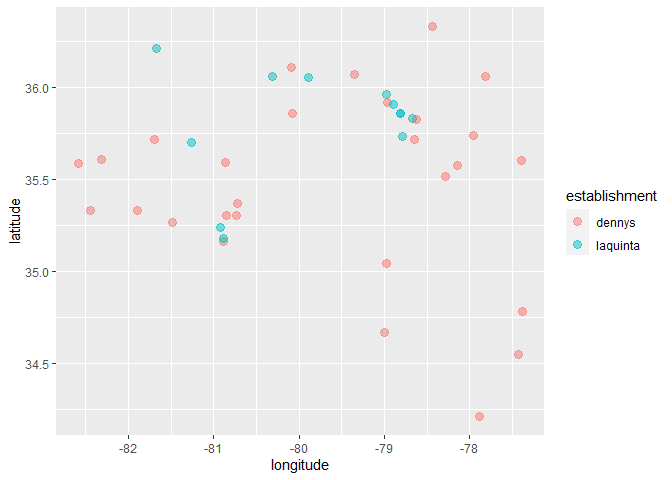
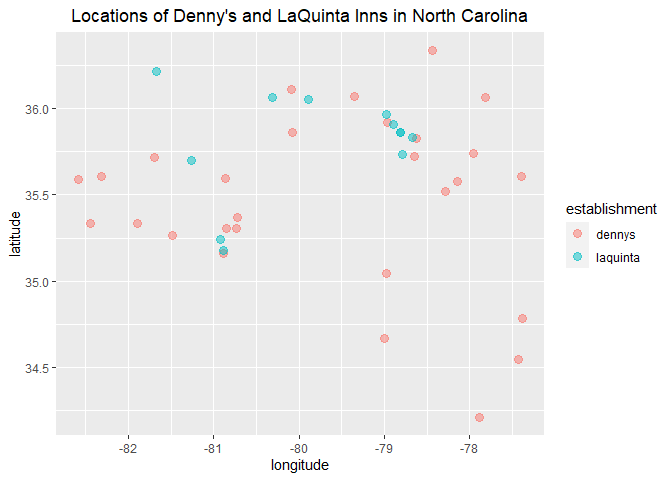
Finished lab

diff --git a/lab-04.md b/lab-04.md
@@ -374,26 +374,45 @@ ggplot(dn_lq %>%
   geom_point()
 ```
 
-![](lab-04_files/figure-gfm/visualizing-1.png)<!-- --> \### Exercise 11
+![](lab-04_files/figure-gfm/visualizing-1.png)<!-- -->
+
+### Exercise 11
+
+Now we can recreate the previous visualization showing only the Denny’s
+and LaQuinta locations in North Carolina. In this case, there is some
+truth to Mitch Hedberg’s joke, as most of the LaQuinta locations are
+pretty close to a Denny’s, although there are a few stray LaQuintas that
+aren’t near any Denny’s, and there are many Denny’s located in parts of
+NC that have no LaQuinta.
 
 ``` r
 ggplot(dn_lq %>%
          filter(state == "NC"), mapping = aes(x = longitude,
                             y = latitude,
                             color = establishment))+
-  geom_point(size = 3, alpha = 0.5)
+  geom_point(size = 3, alpha = 0.5)+
+  labs(title = "Locations of Denny's and LaQuinta Inns in North Carolina")+
+  theme(plot.title = element_text(hjust = 0.5))
 ```
 
 ![](lab-04_files/figure-gfm/visualizing-NC-1.png)<!-- -->
 
 ### Exercise 12
 
+Now let’s create basically the same visualization, but this time for
+Texas. As we can see, Mitch Hedberg’s joke doesn’t hold quite as well
+here, because there are so many LaQuintas located in places where there
+is no Denny’s. However, it does seem that, in places where there is a
+Denny’s in Texas, there is likely to be a LaQuinta nearby.
+
 ``` r
 ggplot(dn_lq %>%
          filter(state == "TX"), mapping = aes(x = longitude,
                             y = latitude,
                             color = establishment))+
-  geom_point(size = 3, alpha = 0.5)
+  geom_point(size = 3, alpha = 0.5)+
+  labs(title = "Locations of Denny's and LaQuinta Inns in Texas")+
+  theme(plot.title = element_text(hjust = 0.5))
 ```
 
 ![](lab-04_files/figure-gfm/visualizing-TX-1.png)<!-- -->
